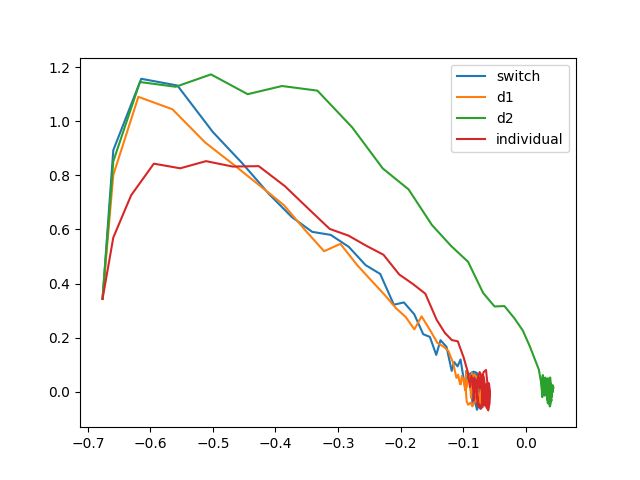
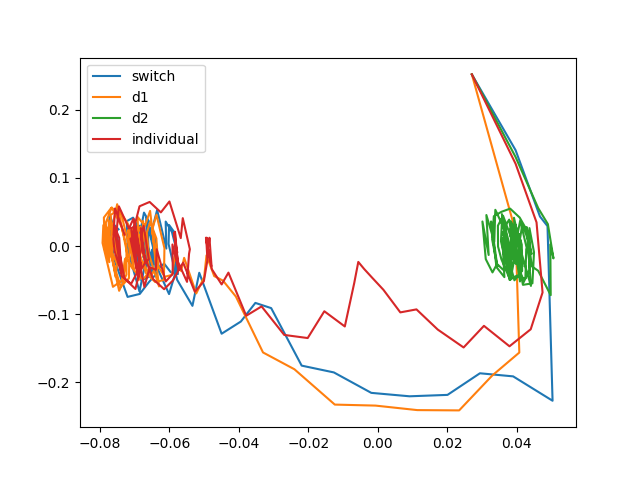
Update_mat_files

diff --git a/vanderpol/mat/inner_invariant.m b/vanderpol/mat/inner_invariant.m
@@ -40,9 +40,9 @@ x2 = [x y d];
 
 % h(x) = 1-x^2-y^2
 % d=8
-obj=(pi*(1920*coe(1) + 480*coe(4) + 480*coe(6) + 240*coe(11) + 80*coe(13) + 240*coe(15) + 150*coe(22) + 30*coe(24) + 30*coe(26) + 150*coe(28) + 105*coe(37) + 15*coe(39) + 9*coe(41) + 15*coe(43) + 105*coe(45)))/1920;
+% obj=(pi*(1920*coe(1) + 480*coe(4) + 480*coe(6) + 240*coe(11) + 80*coe(13) + 240*coe(15) + 150*coe(22) + 30*coe(24) + 30*coe(26) + 150*coe(28) + 105*coe(37) + 15*coe(39) + 9*coe(41) + 15*coe(43) + 105*coe(45)))/1920;
 % d = 10
-%obj=(pi*(7680*coe(1) + 1920*coe(4) + 1920*coe(6) + 960*coe(11) + 320*coe(13) + 960*coe(15) + 600*coe(22) + 120*coe(24) + 120*coe(26) + 600*coe(28) + 420*coe(37) + 60*coe(39) + 36*coe(41) + 60*coe(43) + 420*coe(45) + 315*coe(56) + 35*coe(58) + 15*coe(60) + 15*coe(62) + 35*coe(64) + 315*coe(66)))/7680;
+obj=(pi*(7680*coe(1) + 1920*coe(4) + 1920*coe(6) + 960*coe(11) + 320*coe(13) + 960*coe(15) + 600*coe(22) + 120*coe(24) + 120*coe(26) + 600*coe(28) + 420*coe(37) + 60*coe(39) + 36*coe(41) + 60*coe(43) + 420*coe(45) + 315*coe(56) + 35*coe(58) + 15*coe(60) + 15*coe(62) + 35*coe(64) + 315*coe(66)))/7680;
 
 V1=replace(V,x1,f1');
 V2=replace(V,x1,f2');
@@ -65,7 +65,7 @@ degree1 = degree+6;
 [s12,coe12]=polynomial(x1,degree1);
 [s13,coe13]=polynomial(x1,degree1);
 
-F=[sos(V-V1+s0*X1_0+s1*X1_1+s2*(g_d-0.0225)-s3*H), sos(V-V2+s4*X2_0+s5*X2_1+s6*(g_d-0.0225)-s7*H), sos(V-V3+s8*X3_0+s9*X3_1+s10*(g_d-0.0225)-s11*H),
+F=[sos(V-V1+s0*X1_0+s1*X1_1+s2*(g_d-0.05^2)-s3*H), sos(V-V2+s4*X2_0+s5*X2_1+s6*(g_d-0.05^2)-s7*H), sos(V-V3+s8*X3_0+s9*X3_1+s10*(g_d-0.05^2)-s11*H),
     sos((1+(C0_0)^2)*V-C0_0-s12*H), sos((1+(C0_1)^2)*V-C0_1-s13*H), sos(s0),sos(s1), sos(s2),sos(s3),sos(s4),sos(s5),sos(s6),sos(s7),sos(s8),sos(s9),sos(s10),sos(s11),sos(s12),sos(s13)];
 
 ops = sdpsettings('solver','mosek','sos.newton',1,'sos.congruence',1);
@@ -86,3 +86,11 @@ sdisplay(v'*double(coe));
 %-0.0186297374616+0.000326042536362*x+7.87795721704e-05*y-0.0245403645255*x^2-0.0145569110953*x^2*y-0.059774607903*x^3+0.000778671180061*x*y+0.737707316033*x^3*y-0.000508694408648*y^2-0.00962785698989*x*y^2-0.00224906344622*y^3+0.514446215841*x^2*y^2+0.238589081278*x^2*y^3+0.343583513402*x^3*y^2+0.000509332189018*x*y^3+3.49071967837*x^3*y^3+2.54848867822*x^4+0.00742730412341*y^4+1.04870165096*x^5+0.141134378896*x^4*y+0.14439498584*x*y^4+0.0285877824801*y^5-5.83768040184*x^6-2.51641802335*x^5*y+3.01569530345*x^4*y^2+1.73654696876*x^2*y^4+1.21217614154*x*y^5-0.0639716949012*y^6-2.25465038144*x^7-0.40332413766*x^6*y-1.44972371159*x^5*y^2-0.220769222908*x^4*y^3+0.64105658932*x^3*y^4-0.577750929415*x^2*y^5-0.726679077695*x*y^6-0.0900749354262*y^7+5.74618257194*x^8+3.92108620987*x^7*y-16.3355156347*x^6*y^2-11.9611447227*x^5*y^3-2.38649911655*x^4*y^4-4.36505302442*x^3*y^5-4.88659944522*x^2*y^6-2.50705929521*x*y^7+1.50145382304*y^8+1.29930633227*x^9+0.320820263513*x^8*y+0.952381536266*x^7*y^2+0.0361037148917*x^6*y^3+0.869677706192*x^5*y^4+0.10685560055*x^4*y^5-1.84875451629*x^3*y^6+0.397316171519*x^2*y^7+0.863141576896*x*y^8+0.0771594074445*y^9-1.93438405021*x^10-2.38824191419*x^9*y+14.6017559257*x^8*y^2+8.53939158801*x^7*y^3+3.37487447424*x^6*y^4+5.40811901492*x^5*y^5+4.55612395012*x^4*y^6+4.38009060668*x^3*y^7-1.01656714635*x^2*y^8+0.0129416741164*x*y^9
 %d=10, disturbance=0.15 scale
 %-0.174587358925+0.000858693867599*x+5.66680252946e-05*y-0.0352895495475*x^2+0.0220438120836*x^2*y-0.112581728789*x^3+0.00733961494636*x*y+1.82128187084*x^3*y+0.00465590010632*y^2-0.0160741210207*x*y^2-0.00779210472182*y^3+2.42300274105*x^2*y^2-0.323178911183*x^2*y^3+0.794326766824*x^3*y^2+0.331170819124*x*y^3-5.23228671712*x^3*y^3+9.99688671891*x^4-0.209562407226*y^4+1.8968351846*x^5-0.752090358099*x^4*y+0.316967834573*x*y^4+0.182406077306*y^5-36.5344102839*x^6-5.88508357506*x^5*y-8.40192405614*x^4*y^2-9.96854786046*x^2*y^4-1.03194760443*x*y^5+3.82867276191*y^6-4.25316817803*x^7+2.14940294955*x^6*y-4.18880659461*x^5*y^2+0.667784384553*x^4*y^3+0.158243413391*x^3*y^4+2.10487622291*x^2*y^5-1.05151859083*x*y^6-0.571332212868*y^7+49.0487571986*x^8+6.19120835233*x^7*y+13.296642833*x^6*y^2+7.87899484226*x^5*y^3+15.3555880843*x^4*y^4+16.8850959737*x^3*y^5+7.35538571231*x^2*y^6+0.0547573370134*x*y^7-2.98361601727*y^8+2.47037574457*x^9-1.46960937033*x^8*y+4.29330275282*x^7*y^2-1.19085459687*x^6*y^3+1.23827600482*x^5*y^4-1.40675214558*x^4*y^5-1.01329438232*x^3*y^6-1.57660554269*x^2*y^7+0.898952062579*x*y^8+0.374381699674*y^9-21.872313823*x^10-2.18146816384*x^9*y-10.0767112516*x^8*y^2-2.40121118614*x^7*y^3+1.54264129369*x^6*y^4-16.6042112118*x^5*y^5-15.0005332471*x^4*y^6-10.5692458164*x^3*y^7-0.298518189107*x^2*y^8+0.232189000965*x*y^9
+%d=8, disturbance=0.15, scale
+%-0.095436563201-0.000382159771392*x+1.68086216873e-05*y-0.01451605853*x^2+0.00378187246423*x^2*y-0.0555735370445*x^3+0.00384693270147*x*y+0.781348680033*x^3*y+0.002653160795*y^2-0.00507878207996*x*y^2-0.00381024830072*y^3+1.00010295462*x^2*y^2+0.107000373828*x^2*y^3+0.458673374498*x^3*y^2+0.066107269952*x*y^3-2.21568660734*x^3*y^3+4.34672831351*x^4-0.117279771147*y^4+0.606579131776*x^5-0.371187783953*x^4*y+0.0441326391988*x*y^4+0.0772325295543*y^5-9.43971870543*x^6-1.10020195889*x^5*y-2.60514389836*x^4*y^2-2.65497010858*x^2*y^4+1.27602975*x*y^5+1.90155265004*y^6-0.71324610614*x^7+0.587265305521*x^6*y-0.623780060208*x^5*y^2-0.361742490539*x^4*y^3-0.435023647483*x^3*y^4+0.354125204405*x^2*y^5-0.0190864840329*x*y^6-0.157833151488*y^7+6.11133421911*x^8+0.189943540652*x^7*y+2.15680712167*x^6*y^2+0.626772370452*x^5*y^3+1.94699435254*x^4*y^4+3.98833488191*x^3*y^5+0.485385633733*x^2*y^6-2.67713762155*x*y^7-0.821606028679*y^8
+%d=8, disturbance=0.1, scale
+%-0.185158249313-0.000473119064748*x+7.140793824e-05*y+0.00836356573883*x^2+0.0253138051056*x^2*y+0.309155891661*x^3+0.00465698950305*x*y+0.571994549891*x^3*y+0.00413435632066*y^2+0.0394295044232*x*y^2-0.000372159449832*y^3+1.30769403886*x^2*y^2+0.111360475954*x^2*y^3+0.112562431688*x^3*y^2+0.344773262005*x*y^3-0.296721683604*x^3*y^3+5.49744084087*x^4-0.15799424306*y^4-0.766154330592*x^5-0.119272033703*x^4*y-0.25461634796*x*y^4-0.0141542652043*y^5-12.0471160801*x^6-1.1203197395*x^5*y-2.09261930534*x^4*y^2-6.88983225391*x^2*y^4-1.31921472181*x*y^5+4.00683818715*y^6+0.46954453433*x^7+0.131881504241*x^6*y-0.114360742575*x^5*y^2-0.183219552511*x^4*y^3-0.0801923298815*x^3*y^4+0.0158830858269*x^2*y^5+0.209515768697*x*y^6+0.00262033253548*y^7+7.74893172914*x^8+0.419448892336*x^7*y+1.27519142123*x^6*y^2-0.113501170791*x^5*y^3+4.63195071404*x^4*y^4+1.24318178509*x^3*y^5+3.46588491504*x^2*y^6+0.842679004196*x*y^7-3.20186643367*y^8
+%d=8, disturbance=0.05
+%-0.202365181636-0.000215009023518*x-1.70396414056e-05*y+0.0579883929434*x^2+0.0218489517004*x^2*y+0.312256054801*x^3+0.00667207216021*x*y+0.379472029987*x^3*y+0.00545236408164*y^2+0.0473604175964*x*y^2+0.00775023891412*y^3+1.38079717409*x^2*y^2+0.0913008695767*x^2*y^3-0.0191234259779*x^3*y^2+0.847668246321*x*y^3-0.573961210864*x^3*y^3+3.39494195498*x^4-0.130120070322*y^4-0.862579484751*x^5-0.0621650388833*x^4*y-0.311001976429*x*y^4-0.0492159781768*y^5-6.31541418556*x^6-0.709902456876*x^5*y-2.55473582039*x^4*y^2-6.71979264816*x^2*y^4-3.05080936341*x*y^5+4.30896302621*y^6+0.597053864936*x^7+0.0232154822223*x^6*y+0.0168917541206*x^5*y^2-0.032525497937*x^4*y^3+0.101338803745*x^3*y^4-0.0729773972423*x^2*y^5+0.243348816782*x*y^6+0.0438214864079*y^7+3.77676086304*x^8+0.157443976319*x^7*y+1.67738304589*x^6*y^2-0.0562328419816*x^5*y^3+4.58131723787*x^4*y^4+1.74615514317*x^3*y^5+3.36050391139*x^2*y^6+2.1615856001*x*y^7-3.55293798867*y^8
+%d=10, disturbance=0.05
+%-0.263913574764-0.000528242941314*x+0.000223494053431*y+0.136880834381*x^2+0.0453223772422*x^2*y+0.451060956722*x^3+0.0286858606342*x*y+0.149573897799*x^3*y+0.00286877418857*y^2+0.0756223492812*x*y^2-0.0604702390379*y^3+2.14093826624*x^2*y^2-0.201502301296*x^2*y^3-0.275534348368*x^3*y^2+1.86352665373*x*y^3-8.18848993039*x^3*y^3+7.31224043295*x^4+1.41684160955*y^4-1.83528241165*x^5-0.257056130739*x^4*y-0.543601992228*x*y^4+0.392191892045*y^5-26.1600398701*x^6+1.28595570938*x^5*y-9.58232354246*x^4*y^2-17.6272057479*x^2*y^4-6.71171067242*x*y^5+0.711968481727*y^6+2.44444490116*x^7+0.492679440713*x^6*y+0.552677199957*x^5*y^2+0.549808945833*x^4*y^3+0.671044748426*x^3*y^4+0.857410587542*x^2*y^5+0.750937834496*x*y^6-0.828533309032*y^7+35.5610260815*x^8-4.47956327485*x^7*y+20.8953724365*x^6*y^2+6.83780968103*x^5*y^3+20.431214508*x^4*y^4+30.3080551192*x^3*y^5+26.3674502935*x^2*y^6+4.46487516982*x*y^7-1.44282491053*y^8-1.05931697212*x^9-0.285142290228*x^8*y-0.510256189167*x^7*y^2-0.366656219615*x^6*y^3+0.31058970607*x^5*y^4-1.28400293855*x^4*y^5-0.80943643865*x^3*y^6-0.421014759443*x^2*y^7-0.271029456555*x*y^8+0.496748239549*y^9-16.1608007815*x^10+3.00943525546*x^9*y-16.0941143617*x^8*y^2+1.09055359424*x^7*y^3-4.56595616916*x^6*y^4-22.8329695109*x^5*y^5-19.4142461099*x^4*y^6-18.6447698705*x^3*y^7-11.6454705747*x^2*y^8+0.364939418082*x*y^9

diff --git a/vanderpol/ddpg.py b/vanderpol/ddpg.py
@@ -170,7 +170,9 @@ def where_inv_polySOS(state):
 	#poly 8, disturbance 0.1
 	#inv1 = -0.185158249313-0.000473119064748*(x/3)+7.140793824e-05*(y/3)+0.00836356573883*(x/3)**2+0.0253138051056*(x/3)**2*(y/3)+0.309155891661*(x/3)**3+0.00465698950305*(x/3)*(y/3)+0.571994549891*(x/3)**3*(y/3)+0.00413435632066*(y/3)**2+0.0394295044232*(x/3)*(y/3)**2-0.000372159449832*(y/3)**3+1.30769403886*(x/3)**2*(y/3)**2+0.111360475954*(x/3)**2*(y/3)**3+0.112562431688*(x/3)**3*(y/3)**2+0.344773262005*(x/3)*(y/3)**3-0.296721683604*(x/3)**3*(y/3)**3+5.49744084087*(x/3)**4-0.15799424306*(y/3)**4-0.766154330592*(x/3)**5-0.119272033703*(x/3)**4*(y/3)-0.25461634796*(x/3)*(y/3)**4-0.0141542652043*(y/3)**5-12.0471160801*(x/3)**6-1.1203197395*(x/3)**5*(y/3)-2.09261930534*(x/3)**4*(y/3)**2-6.88983225391*(x/3)**2*(y/3)**4-1.31921472181*(x/3)*(y/3)**5+4.00683818715*(y/3)**6+0.46954453433*(x/3)**7+0.131881504241*(x/3)**6*(y/3)-0.114360742575*(x/3)**5*(y/3)**2-0.183219552511*(x/3)**4*(y/3)**3-0.0801923298815*(x/3)**3*(y/3)**4+0.0158830858269*(x/3)**2*(y/3)**5+0.209515768697*(x/3)*(y/3)**6+0.00262033253548*(y/3)**7+7.74893172914*(x/3)**8+0.419448892336*(x/3)**7*(y/3)+1.27519142123*(x/3)**6*(y/3)**2-0.113501170791*(x/3)**5*(y/3)**3+4.63195071404*(x/3)**4*(y/3)**4+1.24318178509*(x/3)**3*(y/3)**5+3.46588491504*(x/3)**2*(y/3)**6+0.842679004196*(x/3)*(y/3)**7-3.20186643367*(y/3)**8
 	#poly 8, disturbance 0.05
-	inv1 = -0.202365181636-0.000215009023518*(x/3)-1.70396414056e-05*(y/3)+0.0579883929434*(x/3)**2+0.0218489517004*(x/3)**2*(y/3)+0.312256054801*(x/3)**3+0.00667207216021*(x/3)*(y/3)+0.379472029987*(x/3)**3*(y/3)+0.00545236408164*(y/3)**2+0.0473604175964*(x/3)*(y/3)**2+0.00775023891412*(y/3)**3+1.38079717409*(x/3)**2*(y/3)**2+0.0913008695767*(x/3)**2*(y/3)**3-0.0191234259779*(x/3)**3*(y/3)**2+0.847668246321*(x/3)*(y/3)**3-0.573961210864*(x/3)**3*(y/3)**3+3.39494195498*(x/3)**4-0.130120070322*(y/3)**4-0.862579484751*(x/3)**5-0.0621650388833*(x/3)**4*(y/3)-0.311001976429*(x/3)*(y/3)**4-0.0492159781768*(y/3)**5-6.31541418556*(x/3)**6-0.709902456876*(x/3)**5*(y/3)-2.55473582039*(x/3)**4*(y/3)**2-6.71979264816*(x/3)**2*(y/3)**4-3.05080936341*(x/3)*(y/3)**5+4.30896302621*(y/3)**6+0.597053864936*(x/3)**7+0.0232154822223*(x/3)**6*(y/3)+0.0168917541206*(x/3)**5*(y/3)**2-0.032525497937*(x/3)**4*(y/3)**3+0.101338803745*(x/3)**3*(y/3)**4-0.0729773972423*(x/3)**2*(y/3)**5+0.243348816782*(x/3)*(y/3)**6+0.0438214864079*(y/3)**7+3.77676086304*(x/3)**8+0.157443976319*(x/3)**7*(y/3)+1.67738304589*(x/3)**6*(y/3)**2-0.0562328419816*(x/3)**5*(y/3)**3+4.58131723787*(x/3)**4*(y/3)**4+1.74615514317*(x/3)**3*(y/3)**5+3.36050391139*(x/3)**2*(y/3)**6+2.1615856001*(x/3)*(y/3)**7-3.55293798867*(y/3)**8
+	#inv1 = -0.202365181636-0.000215009023518*(x/3)-1.70396414056e-05*(y/3)+0.0579883929434*(x/3)**2+0.0218489517004*(x/3)**2*(y/3)+0.312256054801*(x/3)**3+0.00667207216021*(x/3)*(y/3)+0.379472029987*(x/3)**3*(y/3)+0.00545236408164*(y/3)**2+0.0473604175964*(x/3)*(y/3)**2+0.00775023891412*(y/3)**3+1.38079717409*(x/3)**2*(y/3)**2+0.0913008695767*(x/3)**2*(y/3)**3-0.0191234259779*(x/3)**3*(y/3)**2+0.847668246321*(x/3)*(y/3)**3-0.573961210864*(x/3)**3*(y/3)**3+3.39494195498*(x/3)**4-0.130120070322*(y/3)**4-0.862579484751*(x/3)**5-0.0621650388833*(x/3)**4*(y/3)-0.311001976429*(x/3)*(y/3)**4-0.0492159781768*(y/3)**5-6.31541418556*(x/3)**6-0.709902456876*(x/3)**5*(y/3)-2.55473582039*(x/3)**4*(y/3)**2-6.71979264816*(x/3)**2*(y/3)**4-3.05080936341*(x/3)*(y/3)**5+4.30896302621*(y/3)**6+0.597053864936*(x/3)**7+0.0232154822223*(x/3)**6*(y/3)+0.0168917541206*(x/3)**5*(y/3)**2-0.032525497937*(x/3)**4*(y/3)**3+0.101338803745*(x/3)**3*(y/3)**4-0.0729773972423*(x/3)**2*(y/3)**5+0.243348816782*(x/3)*(y/3)**6+0.0438214864079*(y/3)**7+3.77676086304*(x/3)**8+0.157443976319*(x/3)**7*(y/3)+1.67738304589*(x/3)**6*(y/3)**2-0.0562328419816*(x/3)**5*(y/3)**3+4.58131723787*(x/3)**4*(y/3)**4+1.74615514317*(x/3)**3*(y/3)**5+3.36050391139*(x/3)**2*(y/3)**6+2.1615856001*(x/3)*(y/3)**7-3.55293798867*(y/3)**8
+	#poly 10, disturbance 0.05
+	inv1 = -0.263913574764-0.000528242941314*(x/3)+0.000223494053431*(y/3)+0.136880834381*(x/3)**2+0.0453223772422*(x/3)**2*(y/3)+0.451060956722*(x/3)**3+0.0286858606342*(x/3)*(y/3)+0.149573897799*(x/3)**3*(y/3)+0.00286877418857*(y/3)**2+0.0756223492812*(x/3)*(y/3)**2-0.0604702390379*(y/3)**3+2.14093826624*(x/3)**2*(y/3)**2-0.201502301296*(x/3)**2*(y/3)**3-0.275534348368*(x/3)**3*(y/3)**2+1.86352665373*(x/3)*(y/3)**3-8.18848993039*(x/3)**3*(y/3)**3+7.31224043295*(x/3)**4+1.41684160955*(y/3)**4-1.83528241165*(x/3)**5-0.257056130739*(x/3)**4*(y/3)-0.543601992228*(x/3)*(y/3)**4+0.392191892045*(y/3)**5-26.1600398701*(x/3)**6+1.28595570938*(x/3)**5*(y/3)-9.58232354246*(x/3)**4*(y/3)**2-17.6272057479*(x/3)**2*(y/3)**4-6.71171067242*(x/3)*(y/3)**5+0.711968481727*(y/3)**6+2.44444490116*(x/3)**7+0.492679440713*(x/3)**6*(y/3)+0.552677199957*(x/3)**5*(y/3)**2+0.549808945833*(x/3)**4*(y/3)**3+0.671044748426*(x/3)**3*(y/3)**4+0.857410587542*(x/3)**2*(y/3)**5+0.750937834496*(x/3)*(y/3)**6-0.828533309032*(y/3)**7+35.5610260815*(x/3)**8-4.47956327485*(x/3)**7*(y/3)+20.8953724365*(x/3)**6*(y/3)**2+6.83780968103*(x/3)**5*(y/3)**3+20.431214508*(x/3)**4*(y/3)**4+30.3080551192*(x/3)**3*(y/3)**5+26.3674502935*(x/3)**2*(y/3)**6+4.46487516982*(x/3)*(y/3)**7-1.44282491053*(y/3)**8-1.05931697212*(x/3)**9-0.285142290228*(x/3)**8*(y/3)-0.510256189167*(x/3)**7*(y/3)**2-0.366656219615*(x/3)**6*(y/3)**3+0.31058970607*(x/3)**5*(y/3)**4-1.28400293855*(x/3)**4*(y/3)**5-0.80943643865*(x/3)**3*(y/3)**6-0.421014759443*(x/3)**2*(y/3)**7-0.271029456555*(x/3)*(y/3)**8+0.496748239549*(y/3)**9-16.1608007815*(x/3)**10+3.00943525546*(x/3)**9*(y/3)-16.0941143617*(x/3)**8*(y/3)**2+1.09055359424*(x/3)**7*(y/3)**3-4.56595616916*(x/3)**6*(y/3)**4-22.8329695109*(x/3)**5*(y/3)**5-19.4142461099*(x/3)**4*(y/3)**6-18.6447698705*(x/3)**3*(y/3)**7-11.6454705747*(x/3)**2*(y/3)**8+0.364939418082*(x/3)*(y/3)**9
 	return inv1 <= 0
 
 if __name__ == '__main__':
@@ -192,7 +194,7 @@ if __name__ == '__main__':
 	#random intial state test to generate the scatter plot of safe and unsafe region
 	state_list, fuel_list, _ = test(agent, './models/Individual.pth', renew=True, state_list=[])
 	print(len(fuel_list), np.mean(fuel_list))
-	np.save('initial_state_500_poly8_err0.05.npy', np.array(state_list))
+	np.save('initial_state_500_poly10_err0.05.npy', np.array(state_list))
 
 	# To compare the individual controller and Bernstein polynomial approximation controlled trajectory
 	# state_list, _, indi_trajectory = test(agent, './models/Individual.pth', renew=True, state_list=[], 

diff --git a/vanderpol/py2mat.py b/vanderpol/py2mat.py
@@ -12,4 +12,4 @@ def trans(py_b):
 	c_b = c_b.replace("^","**")
 	return c_b
 
-print(trans('-0.202365181636-0.000215009023518*x-1.70396414056e-05*y+0.0579883929434*x^2+0.0218489517004*x^2*y+0.312256054801*x^3+0.00667207216021*x*y+0.379472029987*x^3*y+0.00545236408164*y^2+0.0473604175964*x*y^2+0.00775023891412*y^3+1.38079717409*x^2*y^2+0.0913008695767*x^2*y^3-0.0191234259779*x^3*y^2+0.847668246321*x*y^3-0.573961210864*x^3*y^3+3.39494195498*x^4-0.130120070322*y^4-0.862579484751*x^5-0.0621650388833*x^4*y-0.311001976429*x*y^4-0.0492159781768*y^5-6.31541418556*x^6-0.709902456876*x^5*y-2.55473582039*x^4*y^2-6.71979264816*x^2*y^4-3.05080936341*x*y^5+4.30896302621*y^6+0.597053864936*x^7+0.0232154822223*x^6*y+0.0168917541206*x^5*y^2-0.032525497937*x^4*y^3+0.101338803745*x^3*y^4-0.0729773972423*x^2*y^5+0.243348816782*x*y^6+0.0438214864079*y^7+3.77676086304*x^8+0.157443976319*x^7*y+1.67738304589*x^6*y^2-0.0562328419816*x^5*y^3+4.58131723787*x^4*y^4+1.74615514317*x^3*y^5+3.36050391139*x^2*y^6+2.1615856001*x*y^7-3.55293798867*y^8'))
+print(trans('-0.263913574764-0.000528242941314*x+0.000223494053431*y+0.136880834381*x^2+0.0453223772422*x^2*y+0.451060956722*x^3+0.0286858606342*x*y+0.149573897799*x^3*y+0.00286877418857*y^2+0.0756223492812*x*y^2-0.0604702390379*y^3+2.14093826624*x^2*y^2-0.201502301296*x^2*y^3-0.275534348368*x^3*y^2+1.86352665373*x*y^3-8.18848993039*x^3*y^3+7.31224043295*x^4+1.41684160955*y^4-1.83528241165*x^5-0.257056130739*x^4*y-0.543601992228*x*y^4+0.392191892045*y^5-26.1600398701*x^6+1.28595570938*x^5*y-9.58232354246*x^4*y^2-17.6272057479*x^2*y^4-6.71171067242*x*y^5+0.711968481727*y^6+2.44444490116*x^7+0.492679440713*x^6*y+0.552677199957*x^5*y^2+0.549808945833*x^4*y^3+0.671044748426*x^3*y^4+0.857410587542*x^2*y^5+0.750937834496*x*y^6-0.828533309032*y^7+35.5610260815*x^8-4.47956327485*x^7*y+20.8953724365*x^6*y^2+6.83780968103*x^5*y^3+20.431214508*x^4*y^4+30.3080551192*x^3*y^5+26.3674502935*x^2*y^6+4.46487516982*x*y^7-1.44282491053*y^8-1.05931697212*x^9-0.285142290228*x^8*y-0.510256189167*x^7*y^2-0.366656219615*x^6*y^3+0.31058970607*x^5*y^4-1.28400293855*x^4*y^5-0.80943643865*x^3*y^6-0.421014759443*x^2*y^7-0.271029456555*x*y^8+0.496748239549*y^9-16.1608007815*x^10+3.00943525546*x^9*y-16.0941143617*x^8*y^2+1.09055359424*x^7*y^3-4.56595616916*x^6*y^4-22.8329695109*x^5*y^5-19.4142461099*x^4*y^6-18.6447698705*x^3*y^7-11.6454705747*x^2*y^8+0.364939418082*x*y^9'))

diff --git a/vanderpol/DDQN_whole.py b/vanderpol/DDQN_whole.py
@@ -285,7 +285,7 @@ if __name__ == '__main__':
 	# # distill(ADAPTER_NAME, INDI_NAME)
 
 	# sw_state = np.load('initial_state_500_valuebased.npy')
-	sw_state = np.load('initial_state_500_polySOS.npy')
+	sw_state = np.load('initial_state_500_poly10_err0.05.npy')
 	sw_reward, sw_fuel, _  = test(ADAPTER_NAME, state_list=sw_state, renew=False, mode='switch')
 	d1_reward, d1_fuel, _ = test(None, state_list=sw_state, renew=False, mode='d1')
 	d2_reward, d2_fuel, _ = test(None, state_list=sw_state, renew=False, mode='d2')
